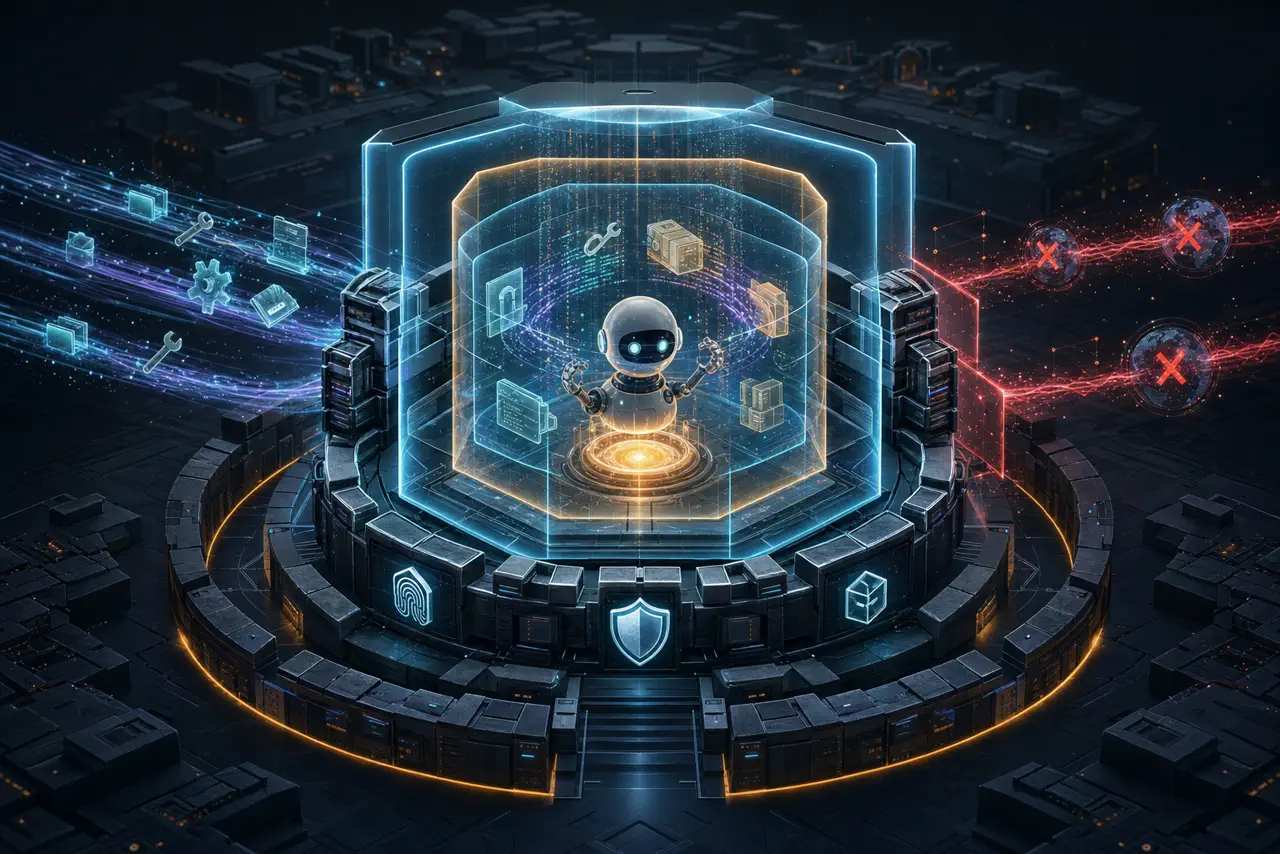
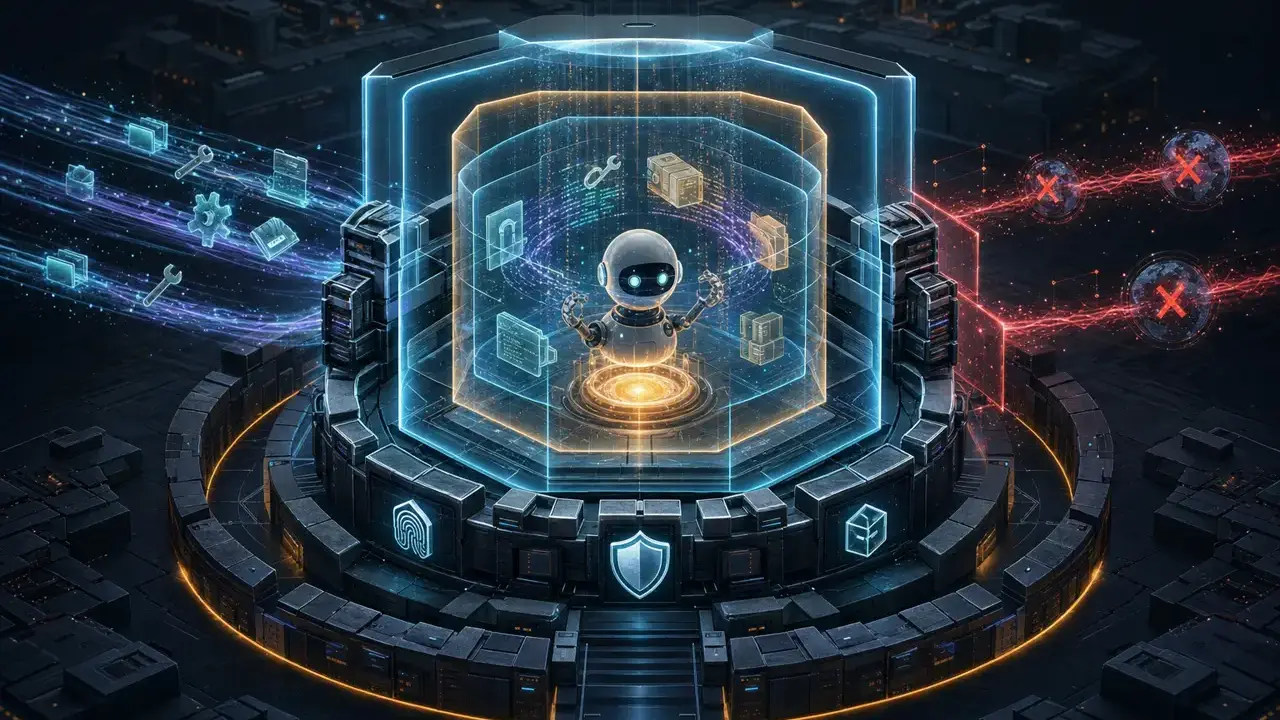
Normalize gVisor sandbox article artwork

diff --git a/articles/ai-agent-sandbox-security-gvisor/IMAGE_PROVENANCE.md b/articles/ai-agent-sandbox-security-gvisor/IMAGE_PROVENANCE.md
@@ -7,3 +7,5 @@ All three assets in this directory were generated as original raster artwork wit
 - `ai-agent-sandbox-egress-policy.webp`: body illustration of bounded resources and deny-by-default egress.
 
 Each image passed manual visual inspection for coherence, corruption, unintended text, and article relevance before publication.
+
+On 2026-07-21 the existing originals were safe-cropped and re-encoded for the humanity-remediated article: the cover is 1280x720 and both body illustrations are 960x540. No generative edit or new visual content was introduced.
